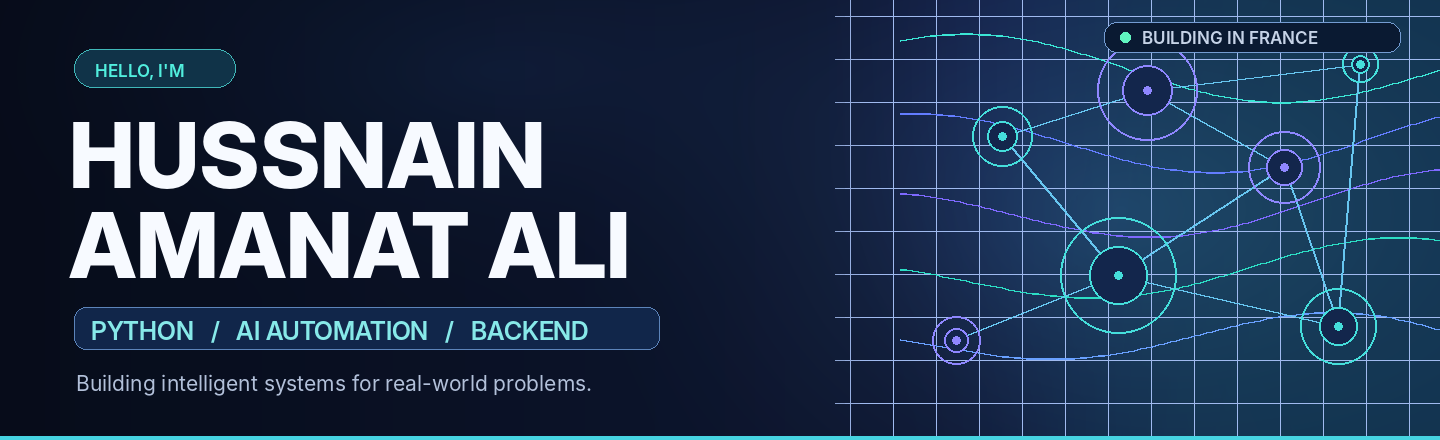
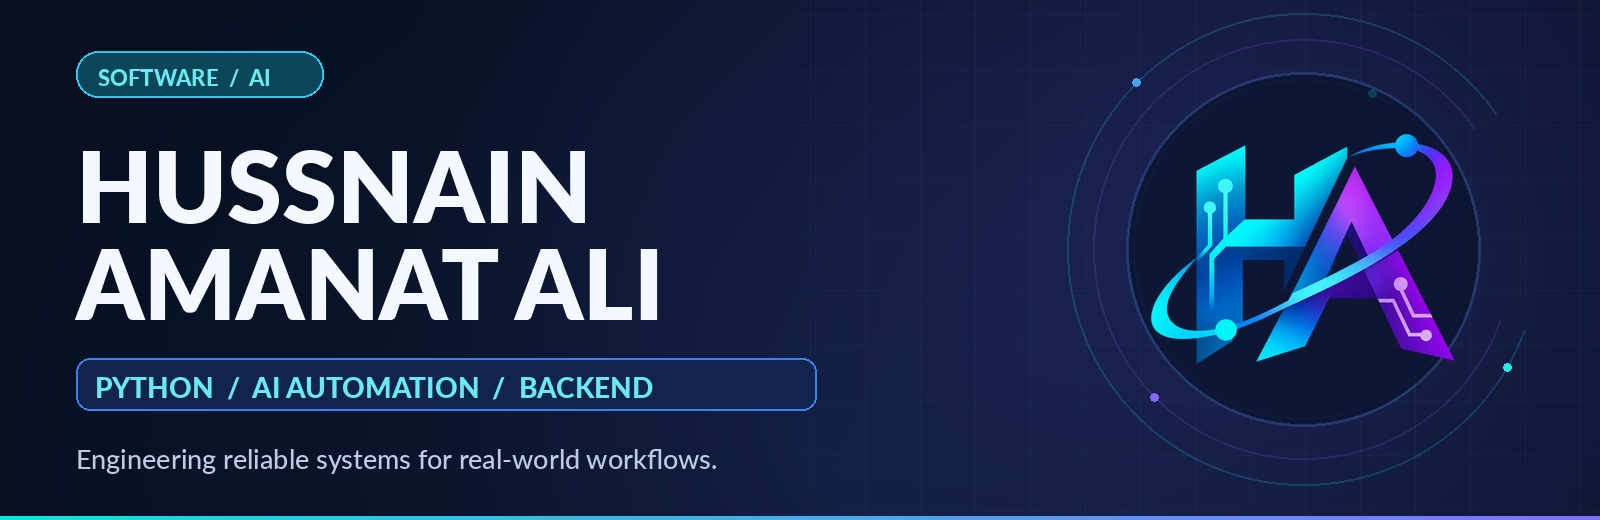
Add files via upload

diff --git a/README.md b/README.md
@@ -1,79 +1,79 @@
 <div align="center">
-  <img src="assets/hero.png" alt="Hussnain Amanat Ali — Python, AI Automation and Backend Development" width="100%" />
 
-  <h3>Python Developer · AI Automation · Applied AI</h3>
-  <p>Turning complex workflows into reliable software, useful automation, and intelligent products.</p>
+  <img src="./assets/hero.png" alt="Hussnain Amanat Ali — Python Engineering, AI Automation and Backend Development" width="100%" />
 
-  <a href="#featured-projects"><strong>Explore my projects</strong></a>
-  &nbsp;·&nbsp;
-  <a href="#what-im-building"><strong>Current work</strong></a>
-  &nbsp;·&nbsp;
-  <a href="https://github.com/hussnaingujjar733?tab=repositories"><strong>All repositories</strong></a>
+  <p><strong>Python Developer · AI Automation Engineer · Applied AI Builder</strong></p>
+  <p>Building practical software, reliable automations and intelligent products.</p>
+
+  <a href="#-featured-projects">Featured projects</a> &nbsp;•&nbsp;
+  <a href="#-engineering-toolkit">Tech stack</a> &nbsp;•&nbsp;
+  <a href="https://github.com/hussnaingujjar733?tab=repositories">All repositories</a>
+
 </div>
 
 ---
 
-### About me
+## 👋 About me
 
-I'm **Hussnain Amanat Ali**, a developer based in **France**, with a focus on **Python engineering, business process automation, backend integrations, and practical AI applications**.
+I'm **Hussnain Amanat Ali**, a developer based in **France**, specializing in **Python, backend integrations, business process automation and applied AI**. I like shipping systems that solve operational problems, not just demos.
 
-- 🎓 Pursuing an **MSc in Computer Science & Data Science at ESILV**, France.
-- 🛠 Building internal tools, workflow automations, APIs and data integrations in a professional internship.
-- 🤖 Exploring **generative AI for human–robot interaction** through my master's thesis project, **EMORA-NAO**.
-- 🌱 Developing **ZAMI**, a prototype aimed at making home-renovation decisions more transparent and trustworthy.
-- 🎯 Interested in **Python, backend development, AI automation and applied ML opportunities**.
+- 🎓 MSc in **Computer Science & Data Science**, **ESILV**, France — master's studies and internship in progress.
+- ⚙ Working on professional **Python/Zoho Creator integrations, workflow automation, data validation and internal tools**.
+- 🤖 Researching conversational and adaptive human–robot interaction with **EMORA-NAO** (master's thesis).
+- 🏡 Building **ZAMI**, a prototype to make home-renovation decisions clearer and more trustworthy.
+- 🎯 Interested in **Python software engineering, backend and AI automation opportunities**.
 
-### Tech stack
+## 🧰 Engineering toolkit
 
-**Backend & automation**
+**Backend & automation**  
+![Python](https://img.shields.io/badge/Python-0E2442?style=for-the-badge&logo=python&logoColor=49D5F2)
+![FastAPI](https://img.shields.io/badge/FastAPI-0E2442?style=for-the-badge&logo=fastapi&logoColor=49D5F2)
+![PostgreSQL](https://img.shields.io/badge/PostgreSQL-0E2442?style=for-the-badge&logo=postgresql&logoColor=49D5F2)
+![REST API](https://img.shields.io/badge/REST_APIs-0E2442?style=for-the-badge&logo=postman&logoColor=49D5F2)
+![Zoho Creator](https://img.shields.io/badge/Zoho_Creator-0E2442?style=for-the-badge&logo=zoho&logoColor=49D5F2)
 
-![Python](https://img.shields.io/badge/Python-15233B?style=flat-square&logo=python&logoColor=57C7EA)
-![FastAPI](https://img.shields.io/badge/FastAPI-15233B?style=flat-square&logo=fastapi&logoColor=32DBC6)
-![REST APIs](https://img.shields.io/badge/REST_APIs-15233B?style=flat-square&logo=postman&logoColor=FF9A65)
-![PostgreSQL](https://img.shields.io/badge/PostgreSQL-15233B?style=flat-square&logo=postgresql&logoColor=85AEFF)
-![Zoho Creator](https://img.shields.io/badge/Zoho_Creator-15233B?style=flat-square&logo=zoho&logoColor=F5A662)
+**AI, data & tooling**  
+![PyTorch](https://img.shields.io/badge/PyTorch-192446?style=for-the-badge&logo=pytorch&logoColor=BB90FF)
+![scikit-learn](https://img.shields.io/badge/scikit--learn-192446?style=for-the-badge&logo=scikitlearn&logoColor=BB90FF)
+![Pandas](https://img.shields.io/badge/Pandas-192446?style=for-the-badge&logo=pandas&logoColor=BB90FF)
+![Apache Spark](https://img.shields.io/badge/Apache_Spark-192446?style=for-the-badge&logo=apachespark&logoColor=BB90FF)
+![Streamlit](https://img.shields.io/badge/Streamlit-192446?style=for-the-badge&logo=streamlit&logoColor=BB90FF)
+![Git](https://img.shields.io/badge/Git-192446?style=for-the-badge&logo=git&logoColor=BB90FF)
 
-**AI, data & applications**
+## 🚀 Featured projects
 
-![PyTorch](https://img.shields.io/badge/PyTorch-15233B?style=flat-square&logo=pytorch&logoColor=FF735F)
-![scikit-learn](https://img.shields.io/badge/scikit--learn-15233B?style=flat-square&logo=scikitlearn&logoColor=F8B967)
-![Pandas](https://img.shields.io/badge/Pandas-15233B?style=flat-square&logo=pandas&logoColor=BBA8FF)
-![Apache Spark](https://img.shields.io/badge/Apache_Spark-15233B?style=flat-square&logo=apachespark&logoColor=F8A355)
-![Streamlit](https://img.shields.io/badge/Streamlit-15233B?style=flat-square&logo=streamlit&logoColor=FF7676)
-![Git](https://img.shields.io/badge/Git-15233B?style=flat-square&logo=git&logoColor=FF7A64)
-
-### Featured projects
-
-| Project | What it does | Focus |
+| Project | Problem I'm solving | Stack / focus |
 | :--- | :--- | :--- |
-| 🏡 **[ZAMI](https://github.com/hussnaingujjar733/Zami)** | Home-renovation decision-support prototype focused on clarity, quotation analysis and homeowner trust. | Python · Product engineering · Decision support |
-| 🛡 **[QuoteGuard AI](https://github.com/hussnaingujjar733/quoteguard-ai)** | AI-assisted renovation-quote review to help homeowners identify risks and evaluate estimates. [Try demo](https://quoteguard-ai-kbf5e98sqjbzi84jrvwqwq.streamlit.app/) | Applied AI · Streamlit |
-| 🤖 **[EMORA-NAO](https://github.com/hussnaingujjar733/emora-nao)** | Work-in-progress master's thesis exploring adaptive conversational interaction with a NAO humanoid robot. | Generative AI · HRI · Python |
-| 🌍 **[EnviroHealth](https://github.com/hussnaingujjar733/RealTime-AirPollution-HealthRisk-Monitoring)** | Distributed real-time environmental data pipeline. Collaborative MSc project. | Kafka · Spark · HDFS · Grafana |
-| 👁 **[Guardian AI](https://github.com/hussnaingujjar733/guardian-ai)** | Computer-vision prototype for detection, tracking and behavioural anomaly analysis. | YOLOv8 · Computer vision |
+| 🏡 **[ZAMI](https://github.com/hussnaingujjar733/Zami)** | Helping homeowners navigate renovation quotations and decisions with more clarity and trust. **Prototype.** | Product engineering · Decision support |
+| 🛡 **[QuoteGuard AI](https://github.com/hussnaingujjar733/quoteguard-ai)** | AI-assisted review of renovation quotes to flag potential issues. **Prototype.** | Python · Applied AI · Streamlit |
+| 🤖 **[EMORA-NAO](https://github.com/hussnaingujjar733/emora-nao)** | Exploring adaptive conversation and expression for NAO humanoid robotics. **Research in progress.** | Generative AI · HRI · Python |
+| 🌍 **[EnviroHealth Monitor](https://github.com/hussnaingujjar733/RealTime-AirPollution-HealthRisk-Monitoring)** | Building a distributed environmental data and monitoring pipeline. **Collaborative MSc project.** | Kafka · Spark · HDFS · Grafana |
+| 👁 **[Guardian AI](https://github.com/hussnaingujjar733/guardian-ai)** | Computer-vision experimentation in detection and behavioural analysis. **Prototype.** | YOLOv8 · Computer vision |
 
-### What I'm building
+## 🔨 Currently building
 
 ```text
-BUILDING NOW
-  ├── AI-powered business workflows & internal automation
-  ├── Python integrations, APIs & data validation pipelines
-  ├── ZAMI — trustworthy home-renovation decision support
-  └── EMORA-NAO — adaptive human–robot interaction research
+PYTHON ENGINEERING
+├── Business process automation and internal applications
+├── API integrations and dependable validation pipelines
+├── ZAMI       → Home-renovation decision-support prototype
+└── EMORA-NAO  → Generative AI for human–robot interaction
 ```
 
-**A note on my professional work:** Some automation and integration projects are built for an employer. Their source code, customer data and internal workflows are not published here.
+> **Professional-project note:** Some of my work is built for an employer. Internal code, business data, customer information and private systems are not published in this profile.
 
-### Approach
+## 🧭 My engineering principles
 
-I like software that's **useful, maintainable, and safe to operate**: clear data flows, explicit validation rules, human review when needed, and automation that solves real problems.
+**Build for real users.** Make automation explainable and resilient. Validate before writing. Keep humans in control of consequential workflows.
 
 ---
 
 <div align="center">
-  <strong>Let's build something useful.</strong><br />
-  <sub>Open to connecting with engineers, builders and teams working on Python, automation and applied AI.</sub><br /><br />
-  <a href="https://github.com/hussnaingujjar733">GitHub Profile</a>
-  &nbsp;·&nbsp;
-  <a href="https://github.com/hussnaingujjar733?tab=repositories">Explore Repositories</a>
+  <img src="./assets/ha-logo.png" alt="HA monogram" width="74" />
+  <p><strong>Let's build something useful.</strong></p>
+  <p>
+    <a href="https://github.com/hussnaingujjar733">GitHub</a> ·
+    <a href="https://github.com/hussnaingujjar733?tab=repositories">Projects</a>
+  </p>
+  <sub>Python • AI Automation • Backend Engineering • France</sub>
 </div>
